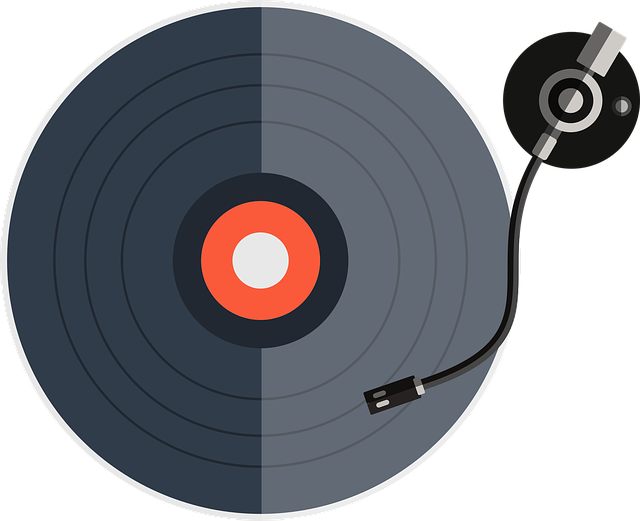
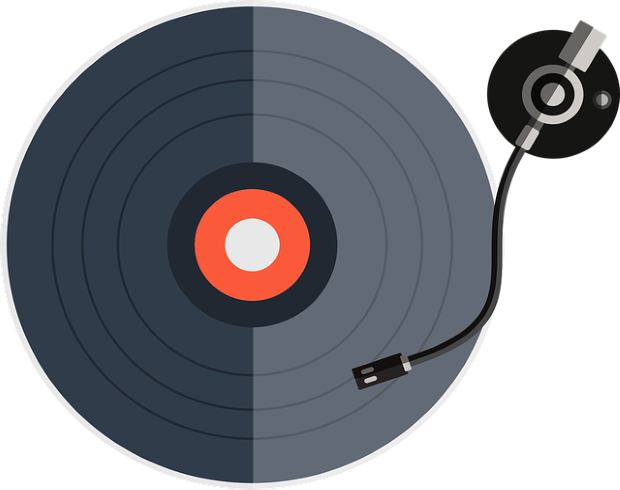
Merge branch 'master' of https://github.com/bukomp/webRadio2.0
# Conflicts:
#	front/src/components/AudioPlayer/AudioPlayer.js

Changed region(s): [[0.3677, 0.9796, 0.3984, 1.0]]

diff --git a/front/src/components/FrontPage.js b/front/src/components/FrontPage.js
@@ -6,10 +6,7 @@ import LoginForm from './FrontPage/LoginForm';
 import AudioPlayer from "./AudioPlayer/AudioPlayer";
 import {Button} from '@material-ui/core';
 import MdHeart from 'react-ionicons/lib/MdHeart'
-import Modal from 'react-modal';
-import ListFile from './AdminPage/ListFile'
-
-
+import MdMusicalNote from 'react-ionicons/lib/MdMusicalNote'
 
 
 const FrontPage = (props) => {
@@ -52,12 +49,11 @@ const FrontPage = (props) => {
     addFavourite(window.localStorage.getItem('token'), music.musicPlayingId).this(res => console.log(res)).catch(err => console.log(err));
   };
 
-
     return (
         <React.Fragment>
 
           {!login.loggedIn &&
-          <Button variant={"contained"}
+          <Button className={"LoginButton"} variant={"contained"}
                   style={{
                     borderRadius: 35,
                     backgroundColor: "lightslategrey",
@@ -78,7 +74,7 @@ const FrontPage = (props) => {
                     padding: "14px 20px",
                     fontSize: "18px",
                     width: "150px",
-                    marginLeft: "85%",
+                    marginLeft: "75%",
                     marginTop: "5px"
                   }}onClick={logout}>Logout</Button>
           }
@@ -87,7 +83,7 @@ const FrontPage = (props) => {
           <div className="preference">
             <h2>Please check your preferences here</h2>
             <ul>
-              <li><p></p></li>
+              <li><MdMusicalNote/></li>
             </ul>
           </div>
           }
@@ -104,10 +100,12 @@ const FrontPage = (props) => {
           }} onClick={toggleRegistration}>Be an active listener. Register here.</Button>
           </LoginForm>
 
+
           <RegistrationForm
               show={login.isOpenReg}
               onClose={toggleRegistration}>
           </RegistrationForm>
+
 
           <AudioPlayer getSongId={getSongId}/>
 
@@ -124,7 +122,7 @@ const FrontPage = (props) => {
                           beat={true}/>
               </Button>
 
-              <br/><p style={{fontSize: "22px", marginLeft: "3%"}}> <br/>Press like
+              <br/><p style={{fontSize: "20px", marginLeft: "3%"}}> <br/>Press like
                 to impact on radio content and save song information in your
                 profile</p>
             </div>

diff --git a/front/src/css/front.css b/front/src/css/front.css
@@ -8,7 +8,11 @@ hr {
     border-radius: 5px;
     margin-top: 10px;
     margin-left: 3px;
+}
 
+ul{
+margin-top: 35px;
+list-style-type: none;
 }
 
 p{
@@ -30,19 +34,24 @@ p{
     position: absolute;
 }
 
+.vinyl{
+    background-image: url("../img/vinyl.png");
+}
+
 h2{
     text-align: center;
     text-decoration-line:underline;
+    font-size: 22px;
 }
 
 .preference{
     background-color: whitesmoke;
     border-radius: 5px;
-    border-style: double;
-    width: 30%;
-    height: 400px;
-    margin-left: 50%;
-
+    border-style: outset;
+    border-width: 5px;
+    width: 27%;
+    height: 470px;
+    margin-left: 47%;
     position: absolute;
     overflow: auto;
 
@@ -51,12 +60,37 @@ h2{
 @media screen and (min-width: 600px) and (max-width: 1200px) {
 
     .modal{
-        width: 310px;
+        width: 250px;
         height: 440px;
         margin-left: 48%;
         margin-top: 0;
         padding: 15px;
-
     }
-    
+
+    .vinyl {
+        background-image: url("../img/vinylXS.png");
+        background-repeat: no-repeat;
+        margin-left: 0;
+        position: relative;
+    }
+
+    .preference{
+        width: 30%;
+        margin-left: 68%;
+    }
+
+.MuiButtonBase-root-27.MuiButton-root-1.MuiButton-text-3.MuiButton-flat-6{
+        margin-top: 60px;
+        margin-left: -95px;
+        position: absolute;
+    }
+    .MuiButtonBase-root-27.MuiButton-root-1.MuiButton-contained-12.MuiButton-raised-15{
+
+        font-size: 14px;
+        width: 20px;
+        margin: 25px 0 15px 75%;
+}
+    .MuiButtonBase-root-27.MuiButton-root-1.MuiButton-text-3.MuiButton-flat-6{
+        margin-top: 10px;
+    }
 }

diff --git a/front/src/components/AudioPlayer/AudioPlayer.js b/front/src/components/AudioPlayer/AudioPlayer.js
@@ -105,8 +105,8 @@ class AudioPlayer extends Component {
           ref={this.player}
           onEnded={this.audioEnd}
         />
-        <div style={{background: `url(${vinyl}) no-repeat`, height: "521px", width: "calc(1vh + 640px)", position: "relative", marginLeft: "5%"}}>
-          <Button style={{
+        <div className="vinyl" style={{height: "490px", width: "620px", position: "relative", marginLeft: "5%", marginTop: "10px"}}>
+          <Button sclassName="playButton" style={{
           borderRadius: "50%",
           width: "55px",
           height: "60px",
@@ -116,8 +116,10 @@ class AudioPlayer extends Component {
         }} onClick={this.audioPlay}>
             {this.state.paused && <MdPause fontSize="50px"/>}
             {!this.state.paused && <MdPlay fontSize="50px"/>}
-          </Button></div>
+          </Button>
+        </div>
       </React.Fragment>
+
     );
   };
 
